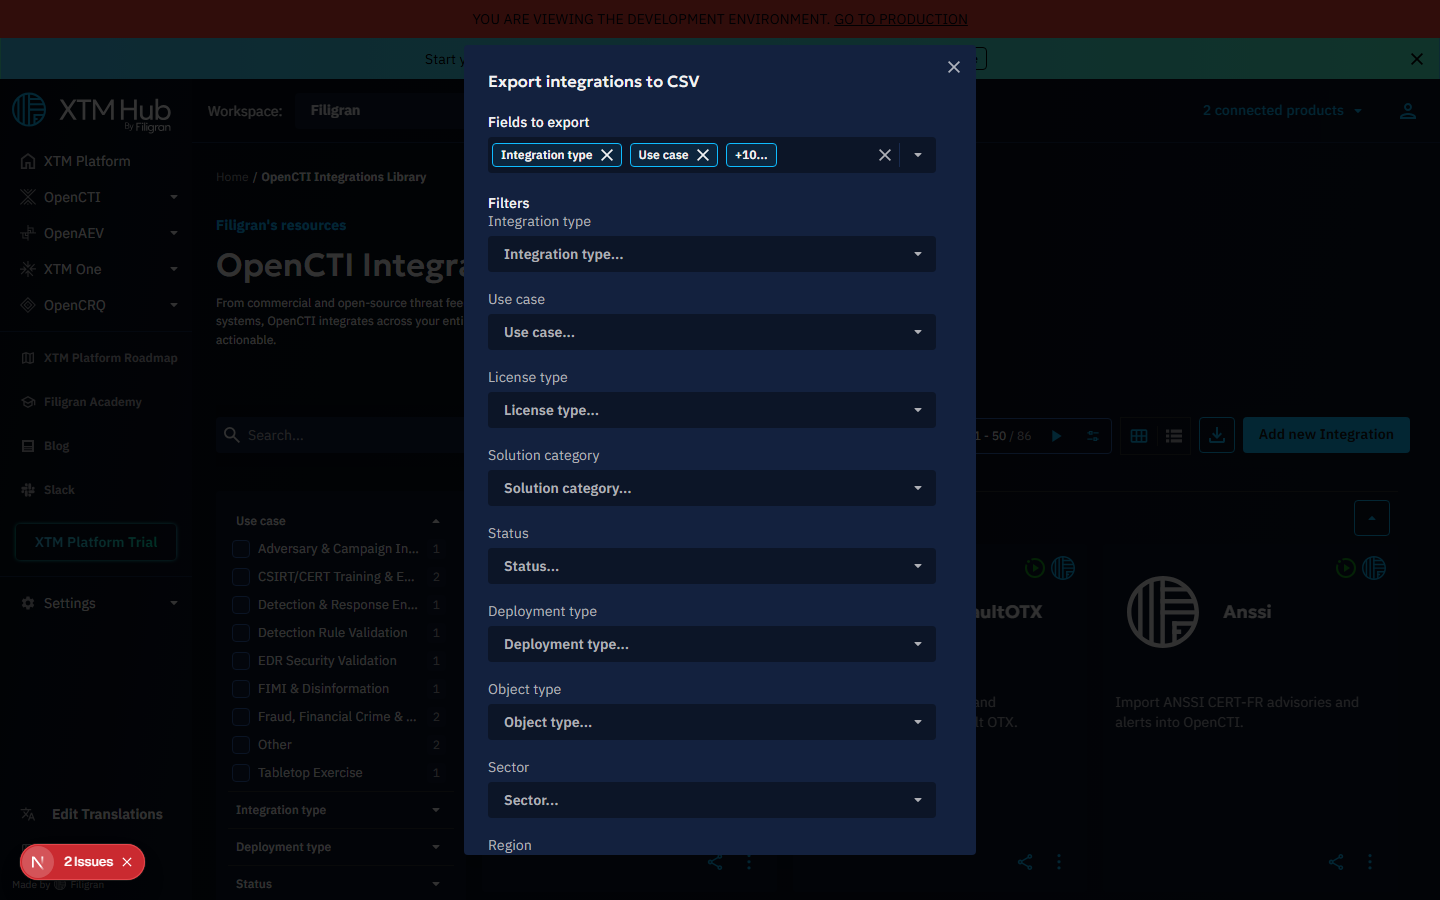
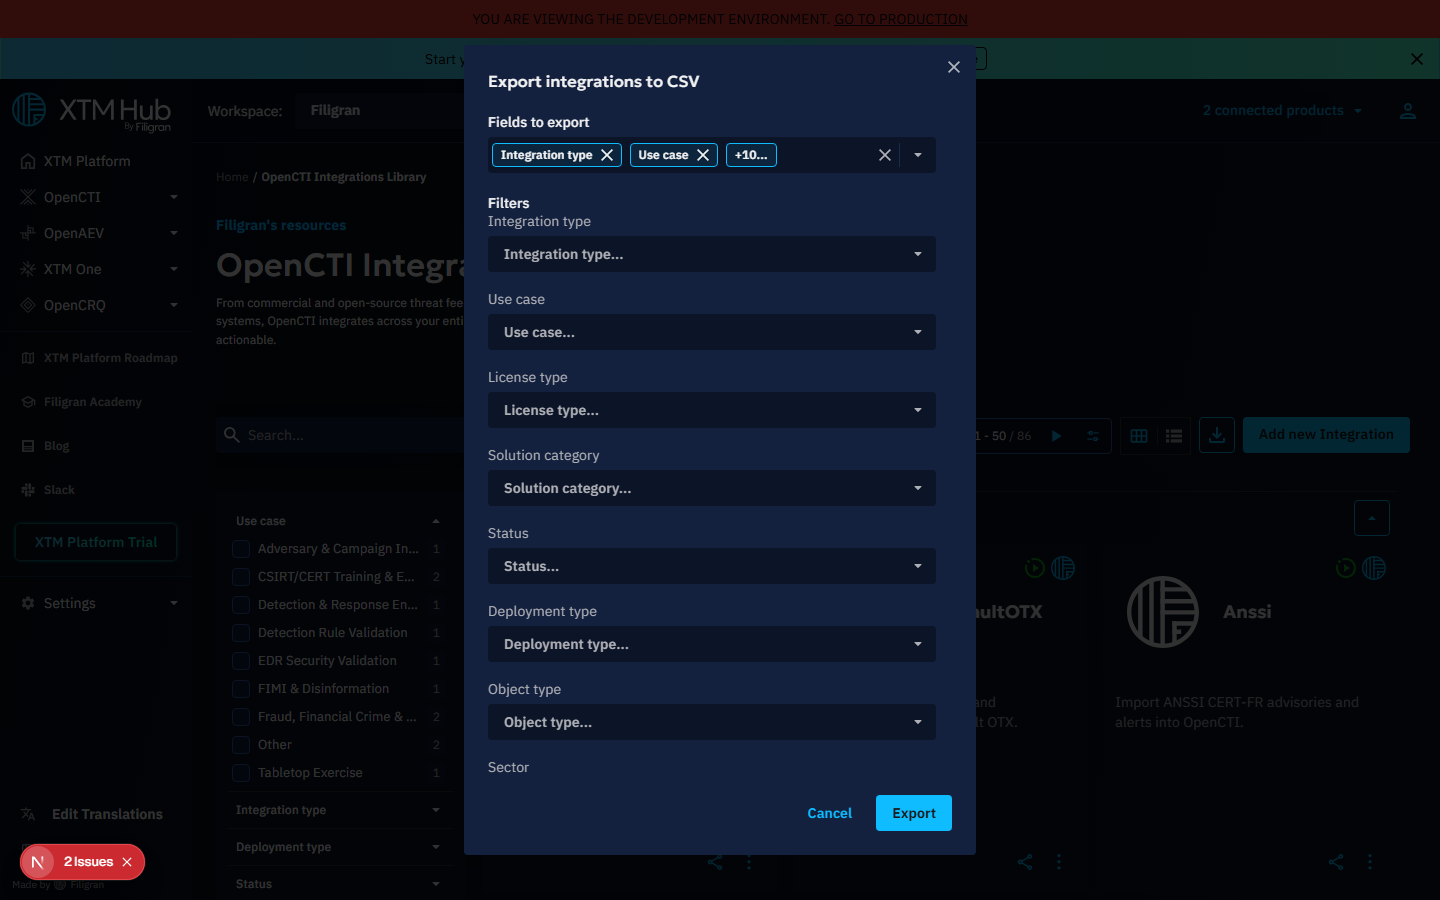
fix(integration): keep the CSV export dialog actions in view and its selected fields inside the dialog (#3660)
Layout polish of the Export integrations to CSV dialog, measured at
1440x900 and 1920x1080, no behaviour change:

- The 90vh cap made the whole dialog scroll, footer included: at 1440x900
  "Cancel" and "Export" sat 175 px below its visible part, at 1920x1080
  13 px of them were cut. The title and the actions now stay in place and
  only the fields and filters between them scroll; both buttons are in view
  at both sizes.
- "Fields to export": the row of selected fields could not shrink below
  its content, so the visible-chip count was computed for a 1,442 px row
  and the chips ran past the 512 px dialog with the "+N" counter hidden.
  The row now takes the width of the field (379 px for 448 px), so the
  chips that fit are shown and the counter stays visible.

The before and after captures of the dialog are refreshed for the pull
request description.

diff --git a/apps/frontend/src/components/service/components/header/IntegrationsCsvExportDialog.tsx b/apps/frontend/src/components/service/components/header/IntegrationsCsvExportDialog.tsx
@@ -320,7 +320,7 @@ export const IntegrationsCsvExportDialog = ({
         if (!value) resetAndClose();
         else setOpen(value);
       }}>
-      <DialogContent className="layer-2 max-h-[90vh] overflow-y-auto overflow-x-hidden">
+      <DialogContent className="layer-2 max-h-[90vh] grid-rows-[auto_minmax(0,1fr)] overflow-hidden">
         <DialogHeader>
           <DialogTitle>{t('Service.CsvExport.DialogTitle')}</DialogTitle>
           <DialogDescription className="sr-only">
@@ -329,6 +329,7 @@ export const IntegrationsCsvExportDialog = ({
         </DialogHeader>
 
         <AutoForm
+          className="flex h-full flex-col *:first:-mx-1 *:first:min-h-0 *:first:overflow-y-auto *:first:px-1"
           values={seededValues}
           formSchema={csvExportFormSchema}
           onSubmit={handleExport}
@@ -343,7 +344,7 @@ export const IntegrationsCsvExportDialog = ({
                   <FormLabel>{t('Service.CsvExport.ColumnsLabel')}</FormLabel>
                   <FormControl>
                     <MultiSelectFormField
-                      className="w-full min-w-0 max-w-md whitespace-nowrap"
+                      className="w-full min-w-0 max-w-md whitespace-nowrap *:min-w-0"
                       data-testid="integrations-csv-export-columns"
                       options={columnOptions}
                       defaultValue={field.value}
